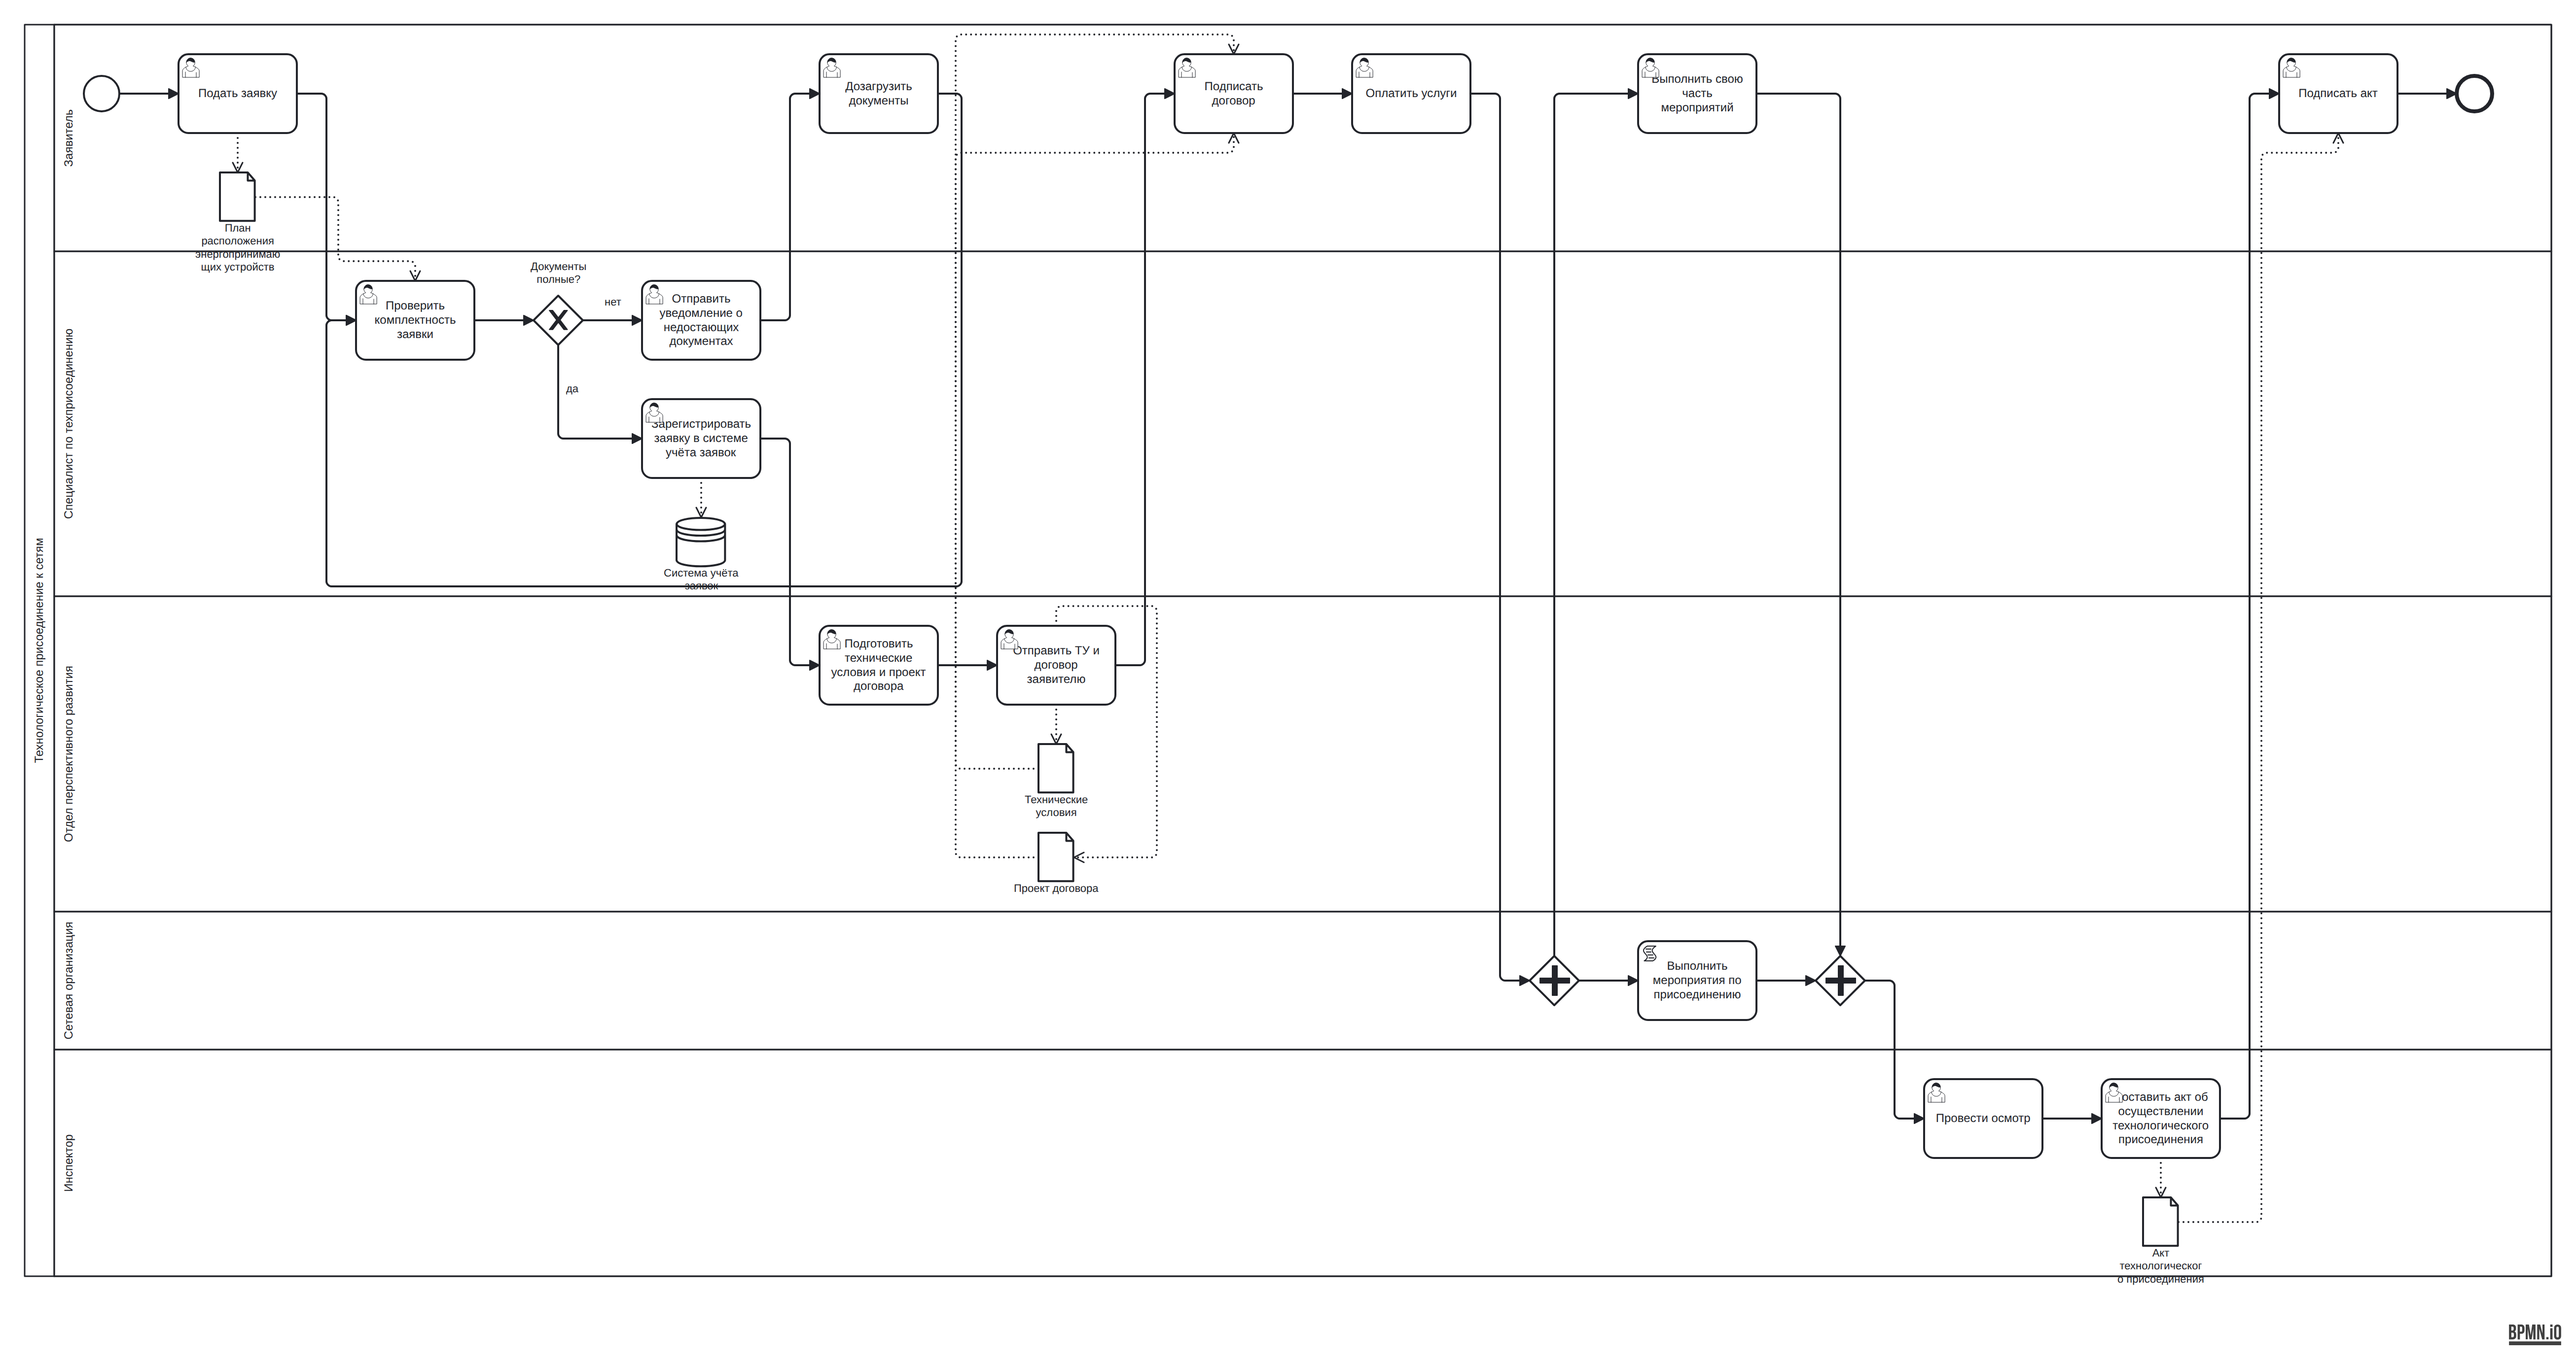
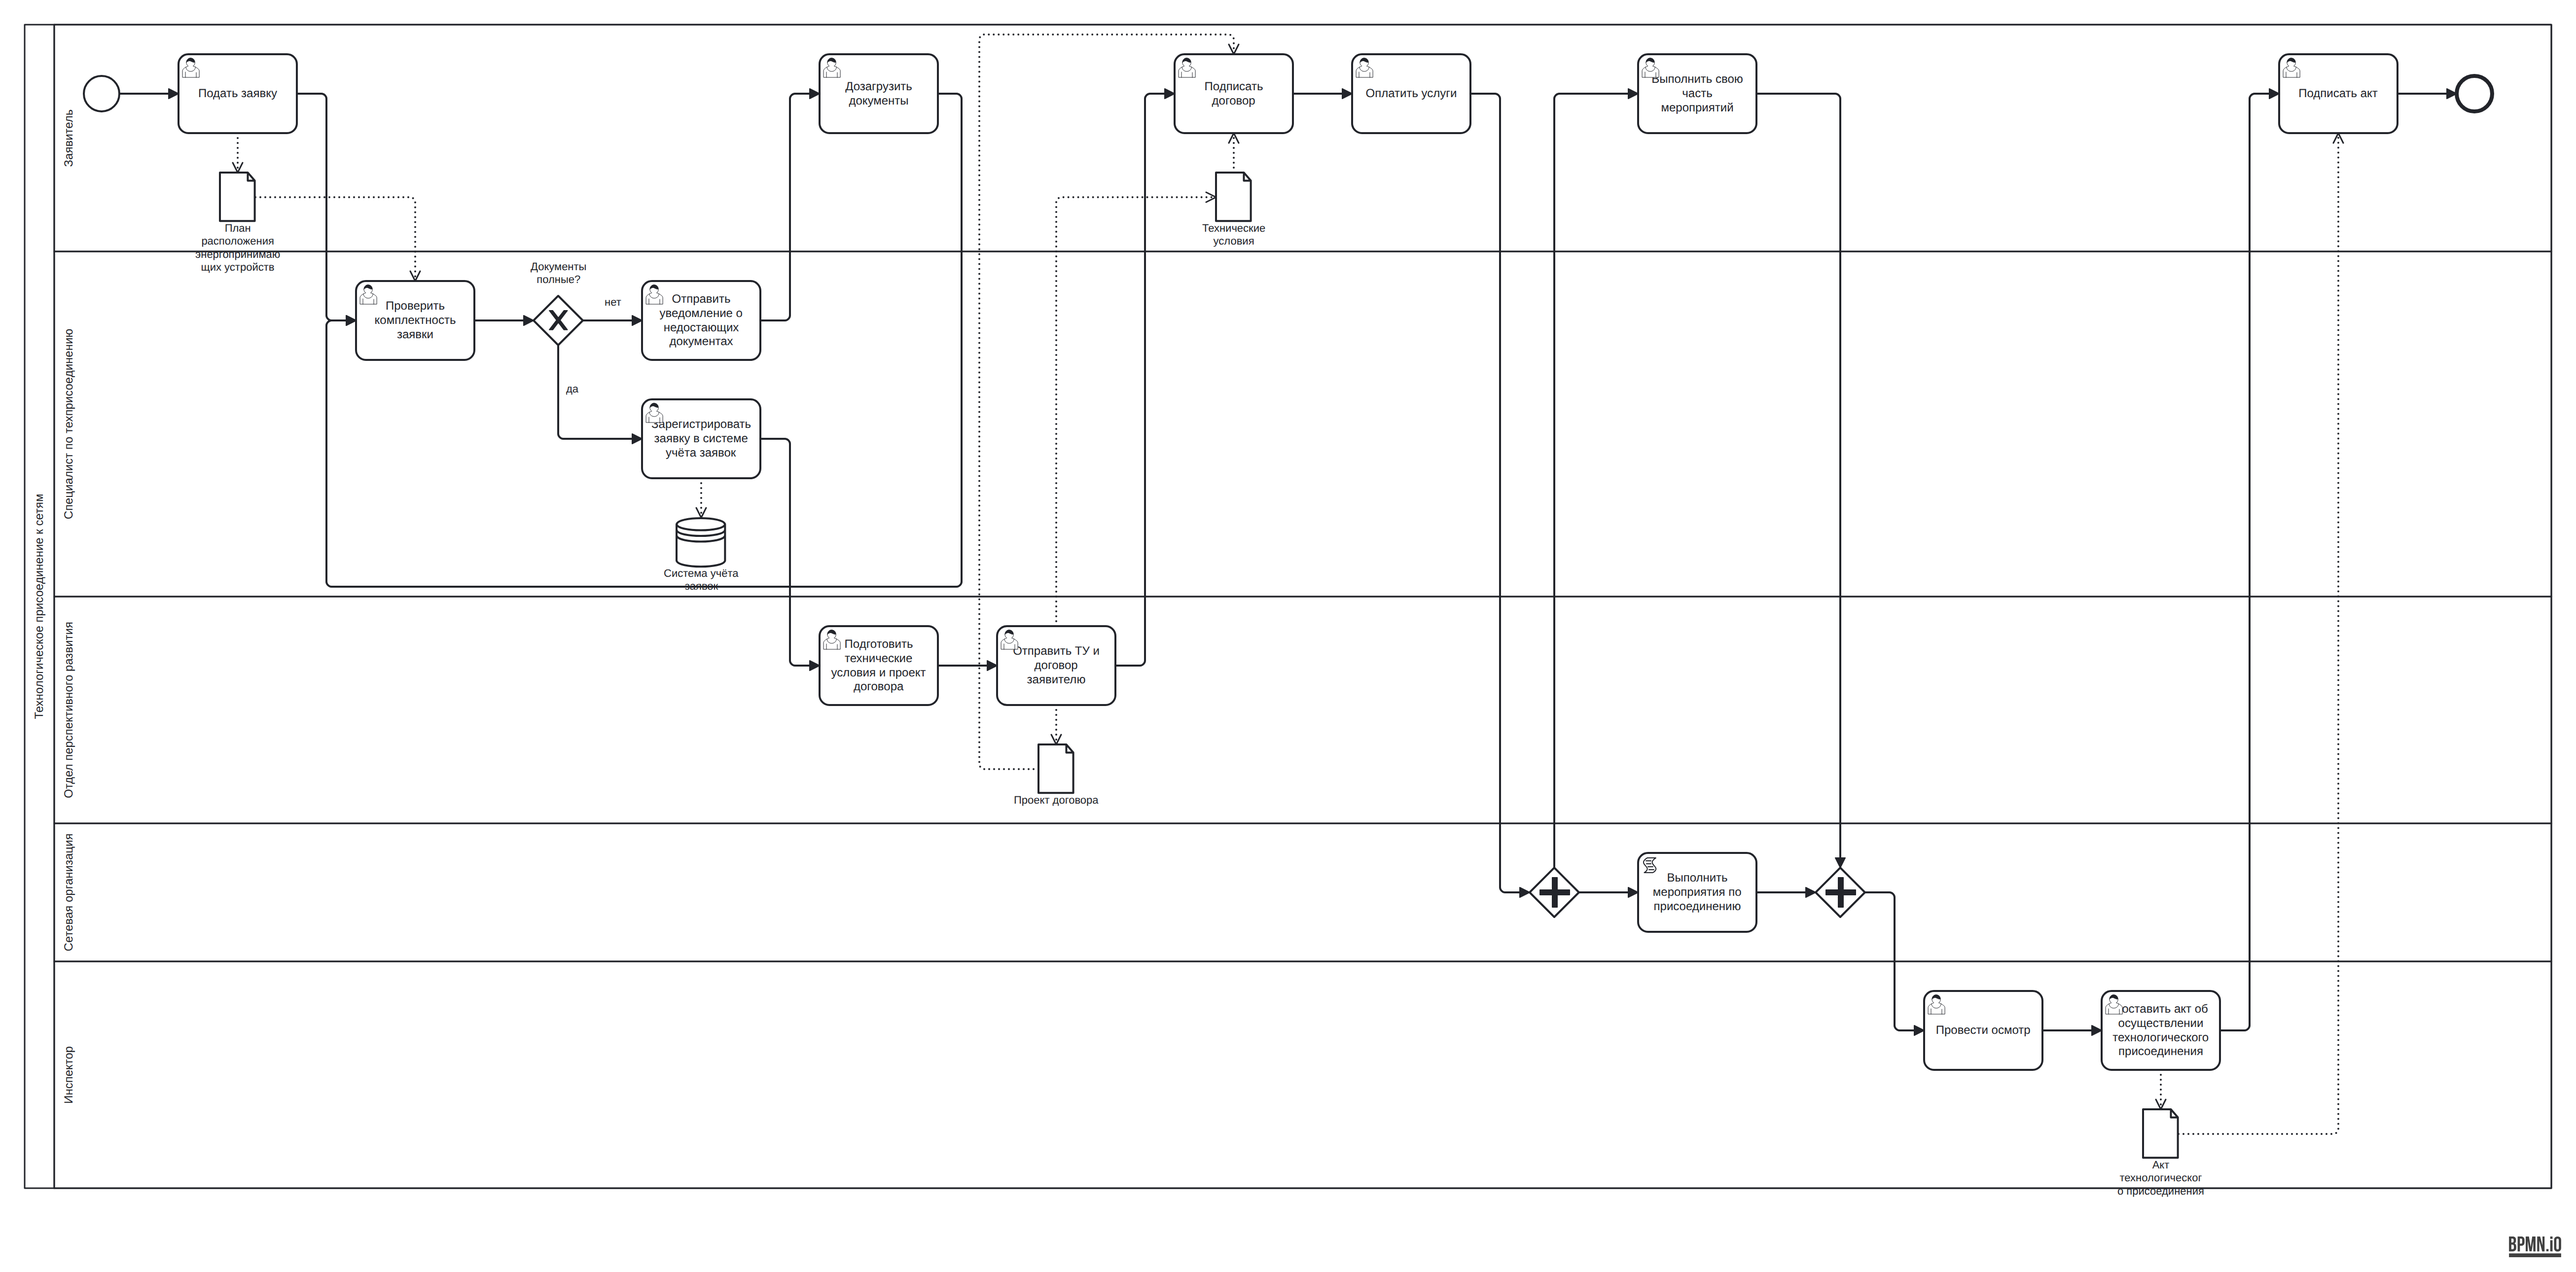
Документ ставится там, где его связи меньше пересекают стрелки
Раскладка пробует поставить документ у каждой связанной с ним задачи и оставляет вариант с меньшим числом пересечений. Связь с задачей в соседней колонке идёт коротким углом, связи с документами разводятся в два прохода.

diff --git a/bpmn_gen/layout.py b/bpmn_gen/layout.py
@@ -31,21 +31,48 @@ def size(node):
 
 
 def layout(graph):
+    owners = {}
+    for n in graph.nodes.values():
+        steps = list(dict.fromkeys(linked(graph, n.id))) if n.type in DATA else []
+        if len(steps) > 1:
+            owners[n.id] = min(steps, key=lambda step: mess(graph, build(graph, {**owners, n.id: step})))
+    return build(graph, owners)
+
+
+def build(graph, owners):
     out = Layout()
-    place(graph, graph.root.id, out, MARGIN, MARGIN)
+    place(graph, graph.root.id, out, MARGIN, MARGIN, owners)
     add_groups(graph, out)
     return out
+
+
+def linked(graph, data_id):
+    return [f.source for f in graph.incoming(data_id)] + [f.target for f in graph.outgoing(data_id)]
+
+
+def mess(graph, out):
+    flows = [f for f in graph.flows if f.id in out.edges]
+    lines = {f.id: list(zip(out.edges[f.id], out.edges[f.id][1:])) for f in flows}
+    crossings = sum(
+        1 for k, a in enumerate(flows) for b in flows[k + 1:]
+        for s in lines[a.id] for t in lines[b.id] if crosses(s, t)
+    )
+    through = sum(
+        1 for f in flows for s in lines[f.id] for n in graph.nodes.values()
+        if n.type != "subProcess" and n.id not in (f.source, f.target) and through_box(s, out.shapes[n.id])
+    )
+    return through * 100 + crossings
 
 
 def scope(graph, node_id):
     return graph.find_up(node_id, "process", "subProcess").id
 
 
-def place(graph, scope_id, out, x0, y0):
+def place(graph, scope_id, out, x0, y0, owners):
     nodes = [n for n in graph.nodes.values() if scope(graph, n.id) == scope_id]
     ids = {n.id for n in nodes}
     flows = [f for f in graph.flows if f.source in ids and f.target in ids]
-    sizes = {n.id: measure(graph, n.id) if n.type == "subProcess" else size(n) for n in nodes}
+    sizes = {n.id: measure(graph, n.id, owners) if n.type == "subProcess" else size(n) for n in nodes}
     steps = [n for n in nodes if n.type not in DATA]
     rank, order, back = ranking(steps, [f for f in flows if f.kind not in DATA_FLOWS])
 
@@ -56,8 +83,8 @@ def place(graph, scope_id, out, x0, y0):
     attached = []
     for n in nodes:
         if n.type in DATA:
-            links = [f.source for f in graph.incoming(n.id)] + [f.target for f in graph.outgoing(n.id)]
-            owner = links[0] if links else None
+            links = linked(graph, n.id)
+            owner = owners.get(n.id, links[0] if links else None)
             rank[n.id] = rank[owner] if owner else 0
             order[n.id] = order[owner] + 0.25 if owner else len(order)
             if owner:
@@ -118,7 +145,7 @@ def place(graph, scope_id, out, x0, y0):
     for n in nodes:
         out.shapes[n.id] = boxes[n.id]
         if n.type == "subProcess":
-            place(graph, n.id, out, *boxes[n.id][:2])
+            place(graph, n.id, out, *boxes[n.id][:2], owners)
 
     if pooled:
         add_pools(graph, bands, band_y, band_h, out, x0, width)
@@ -138,7 +165,8 @@ def place(graph, scope_id, out, x0, y0):
                           if (f.target, f.source) in links else 0)
         for f in flows if f.kind in DATA_FLOWS
     }
-    for f in sorted((f for f in flows if f.id in data), key=lambda f: len(data[f.id])):
+    for f in sorted((f for f in flows if f.id in data), key=lambda f: len(data[f.id])) * 2:
+        routed.pop(f.id, None)
         routed[f.id] = best(data[f.id], f, grid, routed)
     separate(flows, routed, grid)
     for f in flows:
@@ -175,8 +203,8 @@ def overlaps(a, b):
     return a[0] < b[0] + b[2] and b[0] < a[0] + a[2] and a[1] < b[1] + b[3] and b[1] < a[1] + a[3]
 
 
-def measure(graph, node_id):
-    return place(graph, node_id, Layout(), 0, 0)
+def measure(graph, node_id, owners):
+    return place(graph, node_id, Layout(), 0, 0, owners)
 
 
 def ranking(nodes, flows):
@@ -373,13 +401,17 @@ def data_routes(flow, grid, offset=0):
             return [points[::-1] if output else points]
     near_right = tx + tw / 2 >= dx + dw / 2
     options = []
+    if grid.rank[data] != grid.rank[task] and not ty <= middle <= ty + th:
+        points = [(dx + dw if near_right else dx, middle), (task_x, middle), (task_x, ty if below else ty + th)]
+        options.append(points[::-1] if output else points)
     for right in (near_right, not near_right):
-        edge, gap = (dx + dw, grid.right_gap(data) + SHIFT) if right else (dx, grid.left_gap(data) - SHIFT)
-        for top_side in (below, not below):
-            far = grid.rows[task][0] - ROW_GAP / 2 if top_side else grid.rows[task][1] + ROW_GAP / 2
-            end = ty if top_side else ty + th
-            points = [(edge, middle), (gap, middle), (gap, far + offset), (task_x, far + offset), (task_x, end)]
-            options.append(points[::-1] if output else points)
+        for shift in (SHIFT, -SHIFT):
+            edge, gap = (dx + dw, grid.right_gap(data) + shift) if right else (dx, grid.left_gap(data) - shift)
+            for top_side in (below, not below):
+                far = grid.rows[task][0] - ROW_GAP / 2 if top_side else grid.rows[task][1] + ROW_GAP / 2
+                end = ty if top_side else ty + th
+                points = [(edge, middle), (gap, middle), (gap, far + offset), (task_x, far + offset), (task_x, end)]
+                options.append(points[::-1] if output else points)
     return options
 
 

diff --git a/tests/test_pipeline.py b/tests/test_pipeline.py
@@ -4,7 +4,10 @@ from pathlib import Path
 import pytest
 from lxml import etree
 
+from bpmn_gen.layout import build, layout, mess
 from bpmn_gen.pipeline import build_from_code
+from bpmn_gen.sandbox import run_code
+from bpmn_gen.validate import validate
 from tests.bpmn_moddle import AVAILABLE, moddle_warnings
 from bpmn_gen.quality import xsd_errors
 
@@ -598,3 +601,25 @@ DIAGRAM.add_link(check, ROOT_END_TASK_ID)
     assert not any("Обрыв логики" in w for w in result.warnings)
     assert any("добавлена стрелка" in f for f in result.fixes)
     assert xsd_errors(result.xml) == []
+
+
+def test_document_stands_where_links_cross_less():
+    code = """
+pool, (client, office) = DIAGRAM.add_pool(ROOT_PROCESS_ID, ['Заявитель', 'Сетевая организация'])
+ask = DIAGRAM.add_user_task('Подать заявку', client)
+send = DIAGRAM.add_user_task('Отправить договор', office)
+sign = DIAGRAM.add_user_task('Подписать договор', client)
+terms = DIAGRAM.add_data_object('Технические условия', office)
+contract = DIAGRAM.add_data_object('Проект договора', office)
+DIAGRAM.add_link(ROOT_START_TASK_ID, ask)
+DIAGRAM.add_link(ask, send)
+DIAGRAM.add_link(send, sign)
+DIAGRAM.add_link(sign, ROOT_END_TASK_ID)
+DIAGRAM.add_link(send, terms)
+DIAGRAM.add_link(send, contract)
+DIAGRAM.add_link(terms, sign)
+DIAGRAM.add_link(contract, sign)
+"""
+    graph = run_code(code).graph
+    validate(graph)
+    assert mess(graph, layout(graph)) < mess(graph, build(graph, {}))

diff --git a/README.md b/README.md
@@ -295,6 +295,8 @@ DIAGRAM (`code.py`), схема (`output.bpmn`) и картинка (`output.png
 `gemma4:31b` — 8 из 8 валидны, 1,0 попытки, 30 пересечений. Пересечений стало больше, потому что
 на схемах появились пунктирные связи задач с документами. Совпадение с эталоном у `gpt-oss:120b`
 осталось на том же уровне: участники 94%, шаги 75%, порядок 98%, точность 76%.
+Затем доработана раскладка: документ ставится у той задачи, где его связи меньше пересекают
+стрелки, — на тех же восьми схемах первого прогона стало 22 пересечения вместо 30.
 `gpt-oss:20b` и `nemotron-3-nano:30b` после правки промпта не перепроверялись.
 
 **Совпадение с эталоном** (`gpt-oss:120b`, среднее по набору):
@@ -309,7 +311,7 @@ DIAGRAM (`code.py`), схема (`output.bpmn`) и картинка (`output.png
 [docs/reference_gpt-oss-120b.md](docs/reference_gpt-oss-120b.md).
 
 **Раскладка.** На эталонных схемах набора — 0 наложений фигур, 0 стрелок сквозь фигуры,
-19 пересечений стрелок на 8 схем. На 800 случайно сгенерированных процессах (пулы, шлюзы,
+21 пересечение стрелок на 8 схем. На 800 случайно сгенерированных процессах (пулы, шлюзы,
 подпроцессы, документы, сообщения между пулами) — ни одного падения, ни одного XML,
 не прошедшего XSD (и bpmn-moddle на выборке из 80), ни одного наложения фигур.
 
@@ -339,7 +341,8 @@ python -m bpmn_gen.compare out/gpt-oss_120b/ bench/
   параллельные в исключающем — шаг выполнился бы несколько раз);
 - раскладка без наложений фигур и стрелок сквозь фигуры: участники — дорожки,
   процесс идёт слева направо, возвраты — обратными стрелками сверху или снизу,
-  смотря где меньше пересечений; документ или система, нужные далеко по ходу
+  смотря где меньше пересечений; документ стоит рядом с задачей, которая его создаёт
+  или использует, — тоже где меньше пересечений; документ или система, нужные далеко по ходу
   процесса, показываются второй раз рядом с задачей (в XML это один объект);
 - результат проходит официальную XSD BPMN 2.0 и открывается в bpmn.io и
   Camunda Modeler; в веб-интерфейсе схему можно править и скачать как `.bpmn` или `.svg`;
